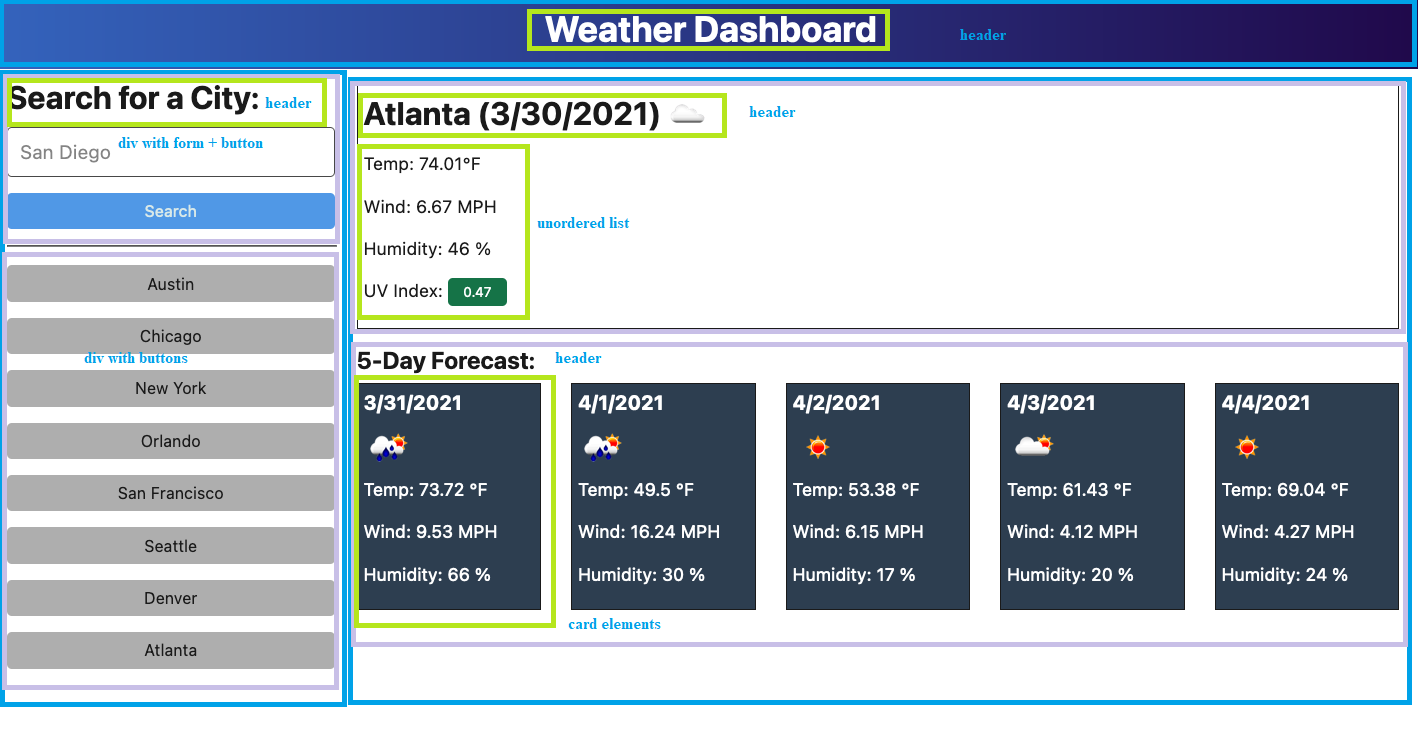
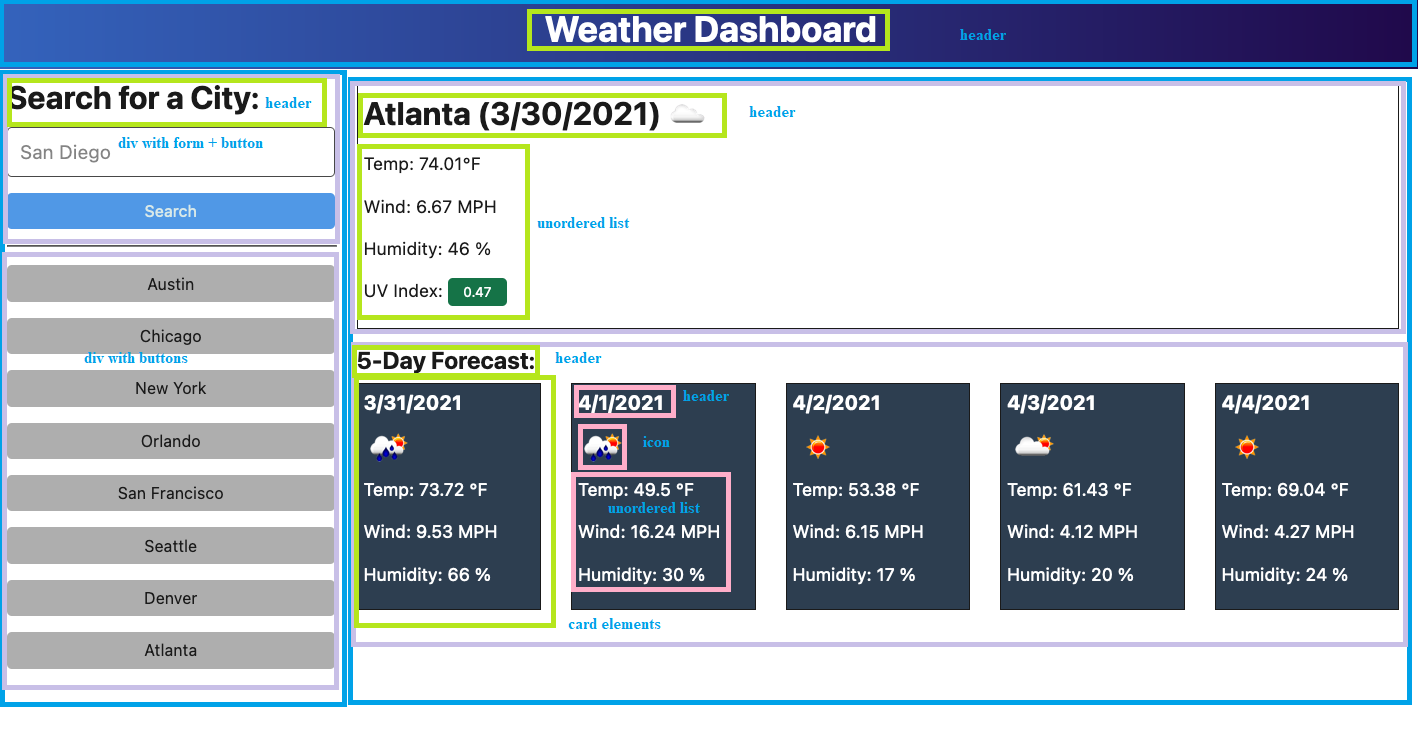
hardcode webpage structure

Changed region(s): [[0.4034, 0.5109, 0.5275, 0.8115], [0.2482, 0.4508, 0.3724, 0.5109], [0.3724, 0.4809, 0.4034, 0.5109]]

diff --git a/index.html b/index.html
@@ -38,19 +38,63 @@
                 </div>
                 <div class="col-9">
                     <h2>Atlanta (3/30/2021)</h2>
-                    <ul>
-                        <li>Temp</li>
-                        <li>Wind</li>
-                        <li>Humidity</li>
-                        <li>UV</li>
-                    </ul>
+                    <div class="card">
+                        <ul class="card-text list-group list-group-flush">
+                            <li class="list-group-item">Temp</li>
+                            <li class="list-group-item">Wind</li>
+                            <li class="list-group-item">Humidity</li>
+                            <li class="list-group-item">UV</li>
+                        </ul>
+                    </div>
                     <div>
                         <h3>5-Day Forecast:</h3>
-                        <div class="card">this is a card</div>
-                        <div class="card">this is a card</div>
-                        <div class="card">this is a card</div>
-                        <div class="card">this is a card</div>
-                        <div class="card">this is a card</div>
+                        <div class="card-group">
+                            <div class="card" style = "width: 18rem;">
+                                <h4 class="card-title">3/31/2021</h4>
+                                <ul class="list-group list-group-flush card-text">
+                                    <li class="list-group-item">Temp</li>
+                                    <li class="list-group-item">Wind</li>
+                                    <li class="list-group-item">Humidity</li>
+                                    <li class="list-group-item">UV</li>
+                                </ul>
+                            </div>
+                            <div class="card" style = "width: 18rem;">
+                                <h4 class="card-title">3/31/2021</h4>
+                                <ul class="list-group list-group-flush card-text">
+                                    <li class="list-group-item">Temp</li>
+                                    <li class="list-group-item">Wind</li>
+                                    <li class="list-group-item">Humidity</li>
+                                    <li class="list-group-item">UV</li>
+                                </ul>
+                            </div>
+                            <div class="card" style = "width: 18rem;">
+                                <h4 class="card-title">3/31/2021</h4>
+                                <ul class="list-group list-group-flush card-text">
+                                    <li class="list-group-item">Temp</li>
+                                    <li class="list-group-item">Wind</li>
+                                    <li class="list-group-item">Humidity</li>
+                                    <li class="list-group-item">UV</li>
+                                </ul>
+                            </div>
+                            <div class="card" style = "width: 18rem;">
+                                <h4 class="card-title">3/31/2021</h4>
+                                <ul class="list-group list-group-flush card-text">
+                                    <li class="list-group-item">Temp</li>
+                                    <li class="list-group-item">Wind</li>
+                                    <li class="list-group-item">Humidity</li>
+                                    <li class="list-group-item">UV</li>
+                                </ul>
+                            </div>
+                            <div class="card" style = "width: 18rem;">
+                                <h4 class="card-title">3/31/2021</h4>
+                                <ul class="list-group list-group-flush card-text">
+                                    <li class="list-group-item">Temp</li>
+                                    <li class="list-group-item">Wind</li>
+                                    <li class="list-group-item">Humidity</li>
+                                    <li class="list-group-item">UV</li>
+                                </ul>
+                            </div>
+                        </div>
                     </div>
                 </div>
             </div>
